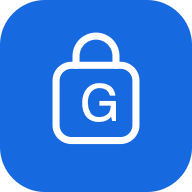
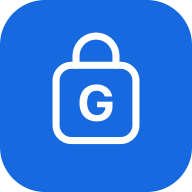
Add files via upload

Changed region(s): [[0.4062, 0.4062, 0.625, 0.6562]]

diff --git a/index.html b/index.html
@@ -1,9 +1,9 @@
 <!doctype html>
-<html lang="de"><head><meta charset="utf-8"><meta http-equiv="Content-Security-Policy" content="default-src 'self'; script-src 'self'; style-src 'self' 'unsafe-inline'; connect-src 'self' https://ydmkutpcrurzsypszrob.supabase.co wss://ydmkutpcrurzsypszrob.supabase.co; img-src 'self' data:; object-src 'none'; base-uri 'self'; form-action 'self'; frame-src 'self'; worker-src 'self'"><meta name="referrer" content="no-referrer"><meta name="viewport" content="width=device-width,initial-scale=1,viewport-fit=cover"><meta name="theme-color" content="#1769e0"><meta name="description" content="Gemeinsame Einkaufslisten und Warenkatalog."><link rel="icon" href="icon.svg?v=30"><link rel="apple-touch-icon" href="icon-180.png?v=30"><link rel="manifest" href="manifest.webmanifest"><link rel="stylesheet" href="styles.css?v=30"><title>GrevingShop. – zusammen einkaufen</title></head>
+<html lang="de"><head><meta charset="utf-8"><meta http-equiv="Content-Security-Policy" content="default-src 'self'; script-src 'self'; style-src 'self' 'unsafe-inline'; connect-src 'self' https://ydmkutpcrurzsypszrob.supabase.co wss://ydmkutpcrurzsypszrob.supabase.co; img-src 'self' data:; object-src 'none'; base-uri 'self'; form-action 'self'; frame-src 'self'; worker-src 'self'"><meta name="referrer" content="no-referrer"><meta name="viewport" content="width=device-width,initial-scale=1,viewport-fit=cover"><meta name="theme-color" content="#1769e0"><meta name="description" content="Gemeinsame Einkaufslisten und Warenkatalog."><link rel="icon" href="icon.svg?v=31"><link rel="apple-touch-icon" href="icon-180.png?v=31"><link rel="manifest" href="manifest.webmanifest"><link rel="stylesheet" href="styles.css?v=31"><title>GrevingShop. – zusammen einkaufen</title></head>
 <body><div class="app-shell"><header class="topbar"><button class="menu-toggle" id="menuToggle" type="button" aria-label="Menü öffnen" aria-expanded="false" aria-controls="appMenu"><svg viewBox="0 0 24 24" aria-hidden="true"><path d="M4 6h16M4 12h16M4 18h16"/></svg></button><div class="brand"><button class="brand-mark" id="avatar" aria-label="Konto und Anmeldung">?</button><a class="brand-name" href="#">GrevingShop<span class="dot">.</span></a></div><button class="icon-button install-button" id="installApp" type="button" aria-label="App installieren" title="App installieren"><svg viewBox="0 0 24 24" aria-hidden="true"><path d="M12 3v12m-4-4 4 4 4-4M5 15v5h14v-5"/></svg></button><button class="icon-button update-button" id="updateApp" type="button" aria-label="Neue App-Version verfügbar" title="Neue App-Version verfügbar" hidden><svg viewBox="0 0 24 24" aria-hidden="true"><rect x="5" y="2" width="14" height="20" rx="3"/><path d="M9 18h6M16 9a4 4 0 1 0 0 4M16 6v3h-3"/></svg><span class="update-dot" aria-hidden="true"></span></button><button class="icon-button sync-btn" id="account" aria-label="Jetzt synchronisieren" title="Jetzt synchronisieren"><svg viewBox="0 0 24 24" aria-hidden="true"><path d="M20 11a8 8 0 0 0-14.9-3M4 5v3h3M4 13a8 8 0 0 0 14.9 3M20 19v-3h-3"/></svg><span id="cloud-check" hidden>✓</span></button></header><aside id="updateNotice" class="update-notice" aria-label="App-Aktualisierung" hidden><div><strong>Neue App-Version verfügbar</strong><p>Aktualisieren, wenn es für dich passt.</p></div><div class="update-actions"><button class="button" id="applyUpdate" type="button">Jetzt aktualisieren</button><button class="button secondary" id="deferUpdate" type="button">Später</button></div></aside><main id="app" tabindex="-1"></main><nav class="menu-panel" id="appMenu" aria-label="Hauptnavigation" hidden>
 <button data-view="lists" class="active" aria-current="page"><span class="menu-link-inner"><svg class="menu-icon shared-nav-icon" data-icon="lists" viewBox="0 0 24 24" aria-hidden="true"><path d="M9 6h11M9 12h11M9 18h11"/><circle cx="4" cy="6" r="1"/><circle cx="4" cy="12" r="1"/><circle cx="4" cy="18" r="1"/></svg><span>Meine Listen</span></span></button>
 <button data-view="archive"><span class="menu-link-inner"><svg viewBox="0 0 24 24" aria-hidden="true"><rect x="3" y="3" width="18" height="5" rx="1.5"/><path d="M5 8v12h14V8M9 12h6"/></svg><span>Archiv</span></span></button>
 <button data-view="catalog"><span class="menu-link-inner"><svg class="menu-icon shared-nav-icon" data-icon="catalog" viewBox="0 0 24 24" aria-hidden="true"><path d="M4 4h12a3 3 0 0 1 3 3v14H7a3 3 0 0 1-3-3V4Zm0 14a3 3 0 0 1 3-3h12M8 8h7M8 11h5"/></svg><span>Warenkatalog</span></span></button>
 <button data-view="family"><span class="menu-link-inner"><svg viewBox="0 0 24 24" aria-hidden="true"><circle cx="9" cy="8" r="3"/><path d="M3 21v-2a6 6 0 0 1 12 0v2M16 5a3 3 0 0 1 0 6M21 21v-2a6 6 0 0 0-4-5.65"/></svg><span>Familie</span></span></button>
 <button data-view="settings"><span class="menu-link-inner"><svg class="menu-icon shared-nav-icon" data-icon="settings" viewBox="0 0 24 24" aria-hidden="true"><path d="M3 5h3m6 0h9M3 12h10m6 0h2M3 19h3m6 0h9"/><circle cx="9" cy="5" r="3"/><circle cx="16" cy="12" r="3"/><circle cx="9" cy="19" r="3"/></svg><span>Settings</span></span></button>
-</nav></div><dialog id="modal"></dialog><div id="toast" role="status" aria-live="polite"></div><script src="supabase.js"></script><script src="auth-session.js?v=28"></script><script src="app.js?v=30"></script></body></html>
+</nav></div><dialog id="modal"></dialog><div id="toast" role="status" aria-live="polite"></div><script src="supabase.js"></script><script src="auth-session.js?v=28"></script><script src="app.js?v=31"></script></body></html>

diff --git a/s24fe.html b/s24fe.html
@@ -1,4 +1,4 @@
 <!doctype html>
 <html lang="de"><head><meta charset="utf-8"><meta name="viewport" content="width=device-width,initial-scale=1"><title>GrevingShop. · Galaxy S24 FE Vorschau</title><style>
 *{box-sizing:border-box}body{margin:0;background:#edf1f7;color:#142846;font:14px/1.5 system-ui,sans-serif;min-height:100dvh;display:flex;flex-direction:column;align-items:center;padding:24px 12px 30px}h1{font-size:20px;letter-spacing:-.5px;margin:0}p{margin:5px 0 16px;color:#536883;text-align:center;max-width:440px;font-size:12px}.phone{width:400px;height:848px;padding:8px;background:#20252b;border-radius:34px;box-shadow:0 20px 60px #14284625;flex-shrink:0}iframe{display:block;width:384px;height:832px;border:0;border-radius:26px;background:#f2f6ff}.foot{margin-top:18px}a{color:#126bff;font-weight:650}button{font:inherit;padding:9px 14px;border-radius:10px;border:1px solid #cad9f2;background:white;color:#142846;cursor:pointer}.controls{display:flex;gap:10px;margin-bottom:16px}@media(max-width:420px){body{padding:12px 0}.phone{width:100%;height:calc(100dvh - 180px);padding:0;border-radius:0;min-height:600px}iframe{width:100%;height:100%;border-radius:0}}
-</style></head><body><h1>GrevingShop. · Galaxy S24 FE</h1><p>Interaktive Vorschau mit 384 × 832 CSS-Pixeln.<br>Die tatsächliche Ansicht kann je nach Bildschirmzoom und Browserleisten abweichen.</p><div class="controls"><button id="home">Startseite</button><button id="reload">Neu laden</button><a href="./" target="_blank" rel="noopener">App öffnen ↗</a></div><div class="phone"><iframe id="phone" src="./?preview=30" title="GrevingShop. in der Galaxy-S24-FE-Vorschau" allow="screen-wake-lock"></iframe></div><p class="foot">Die echte App läuft innerhalb des Smartphone-Rahmens.<br>Du kannst sie hier bedienen und durch die Listen scrollen.</p><script>const phone=document.getElementById('phone');const reload=()=>{phone.src='./?preview=30&refresh='+Date.now()};document.getElementById('home').onclick=reload;document.getElementById('reload').onclick=reload;</script></body></html>
+</style></head><body><h1>GrevingShop. · Galaxy S24 FE</h1><p>Interaktive Vorschau mit 384 × 832 CSS-Pixeln.<br>Die tatsächliche Ansicht kann je nach Bildschirmzoom und Browserleisten abweichen.</p><div class="controls"><button id="home">Startseite</button><button id="reload">Neu laden</button><a href="./" target="_blank" rel="noopener">App öffnen ↗</a></div><div class="phone"><iframe id="phone" src="./?preview=31" title="GrevingShop. in der Galaxy-S24-FE-Vorschau" allow="screen-wake-lock"></iframe></div><p class="foot">Die echte App läuft innerhalb des Smartphone-Rahmens.<br>Du kannst sie hier bedienen und durch die Listen scrollen.</p><script>const phone=document.getElementById('phone');const reload=()=>{phone.src='./?preview=31&refresh='+Date.now()};document.getElementById('home').onclick=reload;document.getElementById('reload').onclick=reload;</script></body></html>

diff --git a/service-worker.js b/service-worker.js
@@ -1,7 +1,7 @@
-const VERSION='30';
-const CACHE='grevingshop-shell-v30';
+const VERSION='31';
+const CACHE='grevingshop-shell-v31';
 const CONTROL='grevingshop-update-control';
-const ASSETS=['./','./index.html','./styles.css?v=30','./app.js?v=30','./icon.svg?v=30','./icon-180.png?v=30','./icon-192.png?v=30','./icon-512.png?v=30','./manifest.webmanifest','./supabase.js','./auth-session.js?v=28'];
+const ASSETS=['./','./index.html','./styles.css?v=31','./app.js?v=31','./icon.svg?v=31','./icon-180.png?v=31','./icon-192.png?v=31','./icon-512.png?v=31','./manifest.webmanifest','./supabase.js','./auth-session.js?v=28'];
 const approvedKey=()=>new URL('./__approved_app_cache__',self.registration.scope).href;
 async function approvedCache(){const state=await caches.open(CONTROL),saved=await state.match(approvedKey());return saved?await saved.text():CACHE}
 async function setApproved(name){const state=await caches.open(CONTROL);await state.put(approvedKey(),new Response(name))}

diff --git a/app.js b/app.js
@@ -1,5 +1,5 @@
 'use strict';
-const APP_VERSION='30';
+const APP_VERSION='31';
 const FAMILY={};
 const catalogSelection=new Set();let catalogTarget='';
 let updateRegistration=null,updateWorker=null,availableVersion='',updateApplying=false,updateReloaded=false;

diff --git a/PRUEFBERICHT.md b/PRUEFBERICHT.md
@@ -124,3 +124,5 @@ Sitzungsprüfung Version 28: 40 Tests bestanden, einschließlich 30-Tage-Frist m
 Version 29 (18.11.2026): Doppelten „+ Produkt“-Button im Leerzustand einer Liste entfernt. Die Hauptaktion „Produkt hinzufügen“ oberhalb der Liste bleibt erhalten.
 
 Version 30 (18.11.2026): App-Icon mit exakt derselben Außenform wie GrevingFit: 512 × 512, Eckenradius 120. Motiv und Blau unverändert; Icon-Adressen versioniert.
+
+Version 31 (18.11.2026): G anhand seiner sichtbaren Kontur horizontal und vertikal in der Taschenfläche zentriert. Buchstabe als feste Vektorform statt geräteabhängiger Schrift; Außenform, Blau und Motivgröße bleiben erhalten.

diff --git a/README.md b/README.md
@@ -227,3 +227,5 @@ Eine serverseitig widerrufene Sitzung, gelöschte Browserdaten oder ein kürzere
 Version 29 (18.11.2026): Doppelten „+ Produkt“-Button im Leerzustand einer Liste entfernt. Die Hauptaktion „Produkt hinzufügen“ oberhalb der Liste bleibt erhalten.
 
 Version 30 (18.11.2026): App-Icon mit exakt derselben Außenform wie GrevingFit: 512 × 512, Eckenradius 120. Motiv und Blau unverändert; Icon-Adressen versioniert.
+
+Version 31 (18.11.2026): G anhand seiner sichtbaren Kontur horizontal und vertikal in der Taschenfläche zentriert. Buchstabe als feste Vektorform statt geräteabhängiger Schrift; Außenform, Blau und Motivgröße bleiben erhalten.
